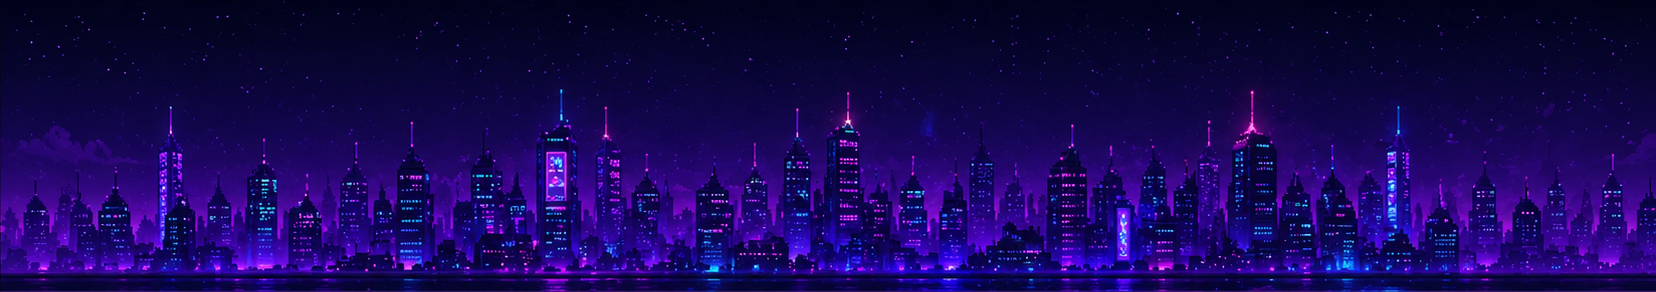
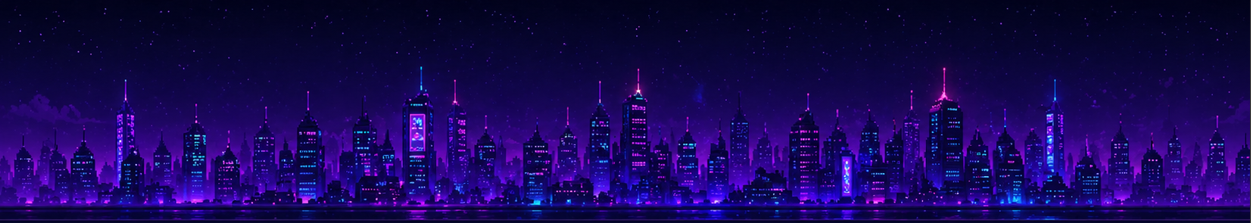
feat(city): integrate cohesive sprite scene

diff --git a/src/components/city/CityView.tsx b/src/components/city/CityView.tsx
@@ -7,9 +7,10 @@ import MobileCityControls from "./MobileCityControls";
 import Motorcycle from "./Motorcycle";
 import StreetHUD from "./StreetHUD";
 
-const CARD_WIDTH_MOBILE = 340;
-const CARD_WIDTH_DESKTOP = 520;
+const CARD_WIDTH_MOBILE = 300;
+const CARD_WIDTH_DESKTOP = 360;
 const CARD_GAP = 160;
+const CITY_ROW_TRANSITION = { type: "spring", stiffness: 70, damping: 24 } as const;
 
 const VISUAL_OFFSET: Record<string, number> = {
   career: 0,
@@ -47,7 +48,7 @@ function Stars() {
 
 function RoadLights() {
   return (
-    <div className="pointer-events-none absolute bottom-[calc(8rem+env(safe-area-inset-bottom))] left-0 right-0 z-10 overflow-hidden md:bottom-20">
+    <div className="pointer-events-none absolute bottom-[calc(16vh+env(safe-area-inset-bottom))] left-0 right-0 z-[8] overflow-hidden opacity-80 md:bottom-[15vh]">
       {[0, 1, 2, 3, 4, 5].map((index) => (
         <motion.div
           key={index}
@@ -59,7 +60,7 @@ function RoadLights() {
             ease: "linear",
             delay: index * 0.28,
           }}
-          className="mb-2 h-[2px] w-24 bg-gradient-to-r from-transparent via-cyan-400/80 to-transparent"
+          className="mb-2 h-[2px] w-24 bg-gradient-to-r from-transparent via-cyan-300/70 to-transparent blur-[0.2px]"
         />
       ))}
     </div>
@@ -68,9 +69,11 @@ function RoadLights() {
 
 function SpriteBackdrop({
   skylineOffset,
+  cityRowOffset,
   roadOffset,
 }: {
   skylineOffset: number;
+  cityRowOffset: number;
   roadOffset: number;
 }) {
   return (
@@ -78,29 +81,42 @@ function SpriteBackdrop({
       <motion.img
         src="/assets/skyline/skyline.png"
         alt=""
-        className="pointer-events-none absolute left-0 top-10 z-[1] h-[30vh] min-h-[180px] w-[220%] max-w-none object-cover object-bottom opacity-35 md:top-8 md:h-[36vh]"
+        className="pointer-events-none absolute left-0 top-0 z-[1] h-[45vh] min-h-[250px] w-[180%] max-w-none object-fill object-bottom opacity-95 brightness-[0.9] saturate-[0.98]"
         animate={{ x: -skylineOffset }}
-        transition={{ type: "spring", stiffness: 70, damping: 24 }}
+        transition={CITY_ROW_TRANSITION}
         aria-hidden="true"
       />
+
+      <div className="pointer-events-none absolute inset-x-0 top-[30vh] z-[1] h-[32vh] bg-[radial-gradient(ellipse_at_48%_45%,rgba(168,85,247,0.22),transparent_56%),radial-gradient(ellipse_at_68%_50%,rgba(34,211,238,0.12),transparent_50%),linear-gradient(to_bottom,transparent_0%,rgba(38,20,74,0.38)_28%,rgba(10,6,24,0.26)_72%,transparent_100%)]" />
 
       <motion.img
         src="/assets/skyline/mid-buildings.png"
         alt=""
-        className="pointer-events-none absolute bottom-[calc(11rem+env(safe-area-inset-bottom))] left-0 z-[2] h-[20vh] min-h-[125px] w-[220%] max-w-none object-cover object-bottom opacity-35 md:bottom-36 md:h-[24vh]"
-        animate={{ x: -skylineOffset * 1.35 }}
-        transition={{ type: "spring", stiffness: 70, damping: 24 }}
+        className="pointer-events-none absolute bottom-[29vh] left-0 z-[2] h-[23vh] min-h-[145px] w-[260%] max-w-none object-fill object-bottom opacity-100 brightness-[0.95] saturate-[1.04]"
+        animate={{ x: -cityRowOffset }}
+        transition={CITY_ROW_TRANSITION}
         aria-hidden="true"
       />
 
       <motion.img
         src="/assets/road/road-base.png"
         alt=""
-        className="pointer-events-none absolute bottom-[calc(5.75rem+env(safe-area-inset-bottom))] left-0 z-[3] h-[22vh] min-h-[150px] w-[240%] max-w-none object-cover object-center opacity-95 md:bottom-0 md:h-[27vh]"
+        className="pointer-events-none absolute bottom-0 left-0 z-[3] h-[31vh] min-h-[210px] w-[190%] max-w-none object-fill object-center opacity-100 brightness-[0.9] saturate-[1.02]"
         animate={{ x: -roadOffset }}
-        transition={{ type: "spring", stiffness: 70, damping: 24 }}
+        transition={CITY_ROW_TRANSITION}
         aria-hidden="true"
       />
+    </>
+  );
+}
+
+function SceneGrade() {
+  return (
+    <>
+      <div className="pointer-events-none absolute inset-0 z-[4] bg-[radial-gradient(circle_at_32%_24%,rgba(168,85,247,0.1),transparent_34%),radial-gradient(circle_at_72%_18%,rgba(34,211,238,0.08),transparent_32%),linear-gradient(to_bottom,rgba(4,2,9,0)_0%,rgba(4,2,9,0.04)_62%,rgba(3,1,7,0.24)_100%)]" />
+      <div className="pointer-events-none absolute inset-0 z-[5] bg-[radial-gradient(ellipse_at_center,transparent_58%,rgba(3,1,8,0.22)_86%,rgba(0,0,0,0.62)_100%)]" />
+      <div className="pointer-events-none absolute inset-x-0 bottom-[58vh] z-[6] h-28 bg-gradient-to-b from-transparent via-[#2a1654]/16 to-transparent" />
+      <div className="pointer-events-none absolute inset-x-0 bottom-[28.8vh] z-[7] h-px bg-gradient-to-r from-transparent via-fuchsia-300/22 to-transparent" />
     </>
   );
 }
@@ -129,8 +145,9 @@ export default function CityView() {
   const visualOffset = VISUAL_OFFSET[sections[activeIndex].id] ?? 0;
   const trackOffset = activeIndex * step + visualOffset;
   const skyOffset = trackOffset * 0.03;
-  const skylineOffset = trackOffset * 0.12;
-  const roadOffset = trackOffset * 0.4;
+  const skylineOffset = trackOffset * 0.03;
+  const cityRowOffset = trackOffset;
+  const roadOffset = trackOffset * 0.12;
 
   const goPrev = () => {
     setActiveIndex((prev) => (prev === 0 ? 0 : prev - 1));
@@ -143,8 +160,8 @@ export default function CityView() {
   };
 
   return (
-    <main className="h-screen overflow-hidden bg-[#07030E] text-white">
-      <div className="relative h-screen overflow-hidden bg-[radial-gradient(circle_at_top,rgba(139,92,246,0.22),transparent_40%),linear-gradient(to_bottom,#0b0613,#090612_55%,#05030a)]">
+    <main className="fixed inset-0 h-dvh overflow-hidden bg-[#07030E] text-white">
+      <div className="relative h-dvh overflow-hidden bg-[radial-gradient(circle_at_top,rgba(139,92,246,0.22),transparent_40%),linear-gradient(to_bottom,#0b0613,#090612_55%,#05030a)]">
         <motion.div
           className="absolute inset-0"
           animate={{ x: -skyOffset }}
@@ -156,16 +173,13 @@ export default function CityView() {
         <div className="absolute inset-0 bg-[radial-gradient(circle_at_70%_10%,rgba(34,211,238,0.15),transparent_40%)]" />
         <SpriteBackdrop
           skylineOffset={skylineOffset}
+          cityRowOffset={cityRowOffset}
           roadOffset={roadOffset}
         />
+        <SceneGrade />
 
-        <div className="absolute inset-x-0 bottom-0 h-40 bg-gradient-to-t from-black/70 to-transparent" />
-        <div className="absolute inset-x-0 bottom-24 h-px bg-fuchsia-400/15" />
-        <div className="absolute bottom-24 left-0 right-0 h-[2px] bg-gradient-to-r from-transparent via-fuchsia-400 to-transparent animate-pulse" />
-        <div className="absolute inset-x-0 bottom-28 h-[2px] bg-gradient-to-r from-transparent via-fuchsia-400/40 to-transparent" />
-
-        <div className="relative mx-auto flex h-screen min-h-0 max-w-7xl flex-col justify-between px-4 pb-[calc(8rem+env(safe-area-inset-bottom))] pt-4 md:px-8 md:py-4">
-          <header className="pt-2">
+        <div className="pointer-events-none absolute left-0 right-0 top-0 z-[15] mx-auto max-w-7xl px-4 pt-4 md:px-8 md:pt-6">
+          <header>
             <p className="text-[10px] uppercase tracking-[0.45em] text-fuchsia-300/75">
               chamfrado.dev
             </p>
@@ -177,45 +191,46 @@ export default function CityView() {
               work, and practical product experiments.
             </p>
           </header>
+        </div>
 
-          <section className="relative min-h-0 flex-1 py-4 md:py-6">
-            <div className="relative z-10 mt-2 overflow-x-hidden overflow-y-visible md:mt-4">
-              <motion.div
-                className="flex items-end"
-                animate={{
-                  x: `calc(50% - ${cardWidth / 2}px - ${trackOffset}px)`,
-                }}
-                transition={{ type: "spring", stiffness: 70, damping: 22 }}
-                drag="x"
-                dragConstraints={{ left: 0, right: 0 }}
-                dragElastic={0.04}
-                onDragEnd={(_, info) => {
-                  if (info.offset.x < -50) goNext();
-                  if (info.offset.x > 50) goPrev();
-                }}
-                style={{ gap: `${CARD_GAP}px` }}
-              >
-                {sections.map((section, index) => (
-                  <div
-                    key={section.id}
-                    className="flex items-end justify-center"
-                    style={{
-                      width: `${cardWidth}px`,
-                      flex: `0 0 ${cardWidth}px`,
-                    }}
-                  >
-                    <Building
-                      section={section}
-                      isActive={index === activeIndex}
-                      onEnter={() => setSelectedSectionId(section.id)}
-                    />
-                  </div>
-                ))}
-              </motion.div>
-            </div>
+        <section className="pointer-events-none absolute inset-x-0 bottom-[29vh] z-[9] h-[25vh] min-h-[165px] overflow-visible">
+          <div className="pointer-events-auto relative h-full overflow-visible">
+            <motion.div
+              className="flex h-full items-end"
+              animate={{
+                x: `calc(50% - ${cardWidth / 2}px - ${cityRowOffset}px)`,
+              }}
+              transition={CITY_ROW_TRANSITION}
+              drag="x"
+              dragConstraints={{ left: 0, right: 0 }}
+              dragElastic={0.04}
+              onDragEnd={(_, info) => {
+                if (info.offset.x < -50) goNext();
+                if (info.offset.x > 50) goPrev();
+              }}
+              style={{ gap: `${CARD_GAP}px` }}
+            >
+              {sections.map((section, index) => (
+                <div
+                  key={section.id}
+                  className="flex items-end justify-center"
+                  style={{
+                    width: `${cardWidth}px`,
+                    flex: `0 0 ${cardWidth}px`,
+                  }}
+                >
+                  <Building
+                    section={section}
+                    isActive={index === activeIndex}
+                    onEnter={() => setSelectedSectionId(section.id)}
+                  />
+                </div>
+              ))}
+            </motion.div>
+          </div>
+        </section>
 
-          </section>
-
+        <div className="pointer-events-auto absolute bottom-4 left-0 right-0 z-20 mx-auto max-w-7xl px-8">
           <StreetHUD
             activeSection={activeSection}
             activeIndex={activeIndex}

diff --git a/src/components/city/Building.tsx b/src/components/city/Building.tsx
@@ -14,39 +14,46 @@ export default function Building({
 }: BuildingProps) {
   return (
     <motion.div
-      className="group relative flex h-[42vh] max-h-[320px] items-end justify-center min-[390px]:h-[45vh] min-[390px]:max-h-[350px] md:h-[58vh] md:max-h-[520px]"
+      className="group relative flex h-full items-end justify-center overflow-visible"
       animate={{
-        y: isActive ? -8 : 8,
-        scale: isActive ? 1 : 0.8,
-        opacity: isActive ? 1 : 0.22,
+        y: isActive ? 0 : 6,
+        scale: isActive ? 1 : 0.78,
+        opacity: isActive ? 1 : 0.36,
       }}
       whileHover={{
-        y: isActive ? -12 : 2,
-        scale: isActive ? 1.03 : 0.84,
-        opacity: isActive ? 1 : 0.34,
+        y: isActive ? -3 : 2,
+        scale: isActive ? 1.04 : 0.84,
+        opacity: isActive ? 1 : 0.55,
       }}
-      whileTap={{ scale: isActive ? 0.98 : 0.8 }}
+      whileTap={{ scale: isActive ? 0.98 : 0.78 }}
       transition={{ type: "spring", stiffness: 120, damping: 18 }}
     >
       <div
         className={[
-          "absolute bottom-3 h-8 w-32 rounded-full blur-2xl transition duration-300 group-hover:w-40",
+          "absolute bottom-0 h-8 w-[68%] rounded-full bg-black/55 blur-2xl transition duration-300 group-hover:w-[76%]",
+          isActive ? "opacity-55" : "opacity-32",
+        ].join(" ")}
+      />
+
+      <div
+        className={[
+          "absolute bottom-1 h-4 w-[58%] rounded-full blur-xl transition duration-300 group-hover:w-[66%]",
           isActive
-            ? "bg-fuchsia-500/55 animate-pulse group-hover:bg-cyan-400/45"
-            : "bg-fuchsia-500/8 group-hover:bg-fuchsia-500/22",
+            ? "animate-pulse bg-gradient-to-r from-fuchsia-500/40 via-cyan-300/35 to-fuchsia-500/40 group-hover:via-cyan-200/45"
+            : "bg-fuchsia-500/10 group-hover:bg-fuchsia-400/18",
         ].join(" ")}
       />
 
       <motion.img
-        src={`/assets/buildings-cutout/${section.id}.png`}
+        src={`/assets/buildings-cutout/${section.id}.webp`}
         alt={section.title}
-        className="relative z-10 max-h-[34vh] w-auto select-none object-contain transition duration-300 group-hover:brightness-110 min-[390px]:max-h-[37vh] md:max-h-[46vh]"
+        className="relative z-10 max-h-full w-auto origin-bottom select-none object-contain mix-blend-screen transition duration-300 group-hover:brightness-110"
         draggable={false}
         animate={{
-          y: isActive ? [0, -3, 0] : 0,
+          y: isActive ? [0, -1.5, 0] : 0,
           filter: isActive
-            ? "drop-shadow(0 0 24px rgba(168,85,247,0.45))"
-            : "drop-shadow(0 0 8px rgba(168,85,247,0.08))",
+            ? "saturate(1.03) brightness(0.98) drop-shadow(0 0 16px rgba(168,85,247,0.28)) drop-shadow(0 0 8px rgba(34,211,238,0.12))"
+            : "saturate(0.72) brightness(0.58) blur(0.25px) drop-shadow(0 0 8px rgba(168,85,247,0.1))",
         }}
         transition={{
           y: {
@@ -62,24 +69,19 @@ export default function Building({
           initial={{ opacity: 0, y: 6 }}
           animate={{ opacity: [0.55, 1, 0.55], y: 0 }}
           transition={{ duration: 1.4, repeat: Infinity, ease: "easeInOut" }}
-          className="pointer-events-none absolute bottom-12 left-1/2 z-20 hidden -translate-x-1/2 rounded-full border border-cyan-300/30 bg-black/45 px-3 py-1 text-[10px] uppercase tracking-[0.25em] text-cyan-200 shadow-[0_0_18px_rgba(34,211,238,0.18)] backdrop-blur-xl md:block"
+          className="pointer-events-none absolute bottom-[2.6rem] left-1/2 z-20 hidden -translate-x-1/2 rounded-full border border-cyan-300/30 bg-black/45 px-3 py-1 text-[10px] uppercase tracking-[0.25em] text-cyan-200 shadow-[0_0_18px_rgba(34,211,238,0.18)] backdrop-blur-xl md:block"
         >
           Click to enter
         </motion.div>
       )}
 
-      <div className="absolute bottom-2 z-20 translate-y-1/2">
-        <div
-          className={[
-            "rounded-full border px-3 py-1 text-[10px] uppercase tracking-[0.25em] backdrop-blur-xl transition duration-300 group-hover:border-cyan-300/40 group-hover:text-cyan-100",
-            isActive
-              ? "border-fuchsia-300/40 bg-fuchsia-500/20 text-fuchsia-200 shadow-[0_0_20px_rgba(168,85,247,0.45)]"
-              : "border-white/10 bg-black/30 text-zinc-400",
-          ].join(" ")}
-        >
-          {section.storeName}
+      {!isActive && (
+        <div className="absolute bottom-4 z-20 translate-y-1/2">
+          <div className="rounded-full border border-white/10 bg-black/30 px-3 py-1 text-[10px] uppercase tracking-[0.25em] text-zinc-400 backdrop-blur-xl transition duration-300 group-hover:border-cyan-300/40 group-hover:text-cyan-100">
+            {section.storeName}
+          </div>
         </div>
-      </div>
+      )}
 
       <button
         type="button"

diff --git a/src/components/city/Motorcycle.tsx b/src/components/city/Motorcycle.tsx
@@ -9,13 +9,13 @@ export default function Motorcycle({ activeIndex }: MotorcycleProps) {
     <motion.div
       animate={{ rotate: activeIndex % 2 === 0 ? -2 : 2 }}
       transition={{ type: "spring", stiffness: 120, damping: 20 }}
-      className="pointer-events-none absolute bottom-[calc(6.55rem+env(safe-area-inset-bottom))] left-1/2 z-[12] -translate-x-1/2 md:-bottom-2 md:z-[9]"
+      className="pointer-events-none absolute bottom-[calc(12vh+env(safe-area-inset-bottom))] left-1/2 z-[12] -translate-x-1/2 md:bottom-[8.5vh]"
     >
       <div className="relative">
         <motion.div
-          animate={{ opacity: [0.35, 0.55, 0.35] }}
+          animate={{ opacity: [0.38, 0.58, 0.38] }}
           transition={{ duration: 1.6, repeat: Infinity, ease: "easeInOut" }}
-          className="absolute left-1/2 top-[78%] h-10 w-44 -translate-x-1/2 rounded-full bg-fuchsia-500/35 blur-2xl md:w-56"
+          className="absolute left-1/2 top-[76%] h-5 w-28 -translate-x-1/2 rounded-full bg-gradient-to-r from-fuchsia-500/30 via-cyan-300/22 to-fuchsia-500/30 blur-xl md:w-36"
         />
 
         <motion.div
@@ -24,9 +24,9 @@ export default function Motorcycle({ activeIndex }: MotorcycleProps) {
           className="relative"
         >
           <img
-            src="/assets/motorcycle/motorcycle-cutout.png"
+            src="/assets/motorcycle/motorcycle-goal-clean.png"
             alt=""
-            className="h-auto w-[172px] max-w-none select-none object-contain drop-shadow-[0_0_24px_rgba(168,85,247,0.36)] min-[390px]:w-[198px] md:w-[260px]"
+            className="h-auto w-[116px] max-w-none select-none object-contain brightness-[0.95] saturate-[1.02] drop-shadow-[0_0_18px_rgba(168,85,247,0.34)] min-[390px]:w-[128px] md:w-[150px]"
             aria-hidden="true"
             draggable={false}
           />

diff --git a/src/index.css b/src/index.css
@@ -8,12 +8,30 @@ html,
 body,
 #root {
   height: 100%;
+  width: 100%;
   overflow: hidden;
+  overscroll-behavior: none;
+  scrollbar-width: none;
+}
+
+html::-webkit-scrollbar,
+body::-webkit-scrollbar,
+#root::-webkit-scrollbar {
+  display: none;
+  height: 0;
+  width: 0;
 }
 
 body {
+  position: fixed;
+  inset: 0;
   margin: 0;
   background: #07030e;
   color: white;
   font-family: Inter, ui-sans-serif, system-ui, sans-serif;
+}
+
+#root {
+  position: fixed;
+  inset: 0;
 }
